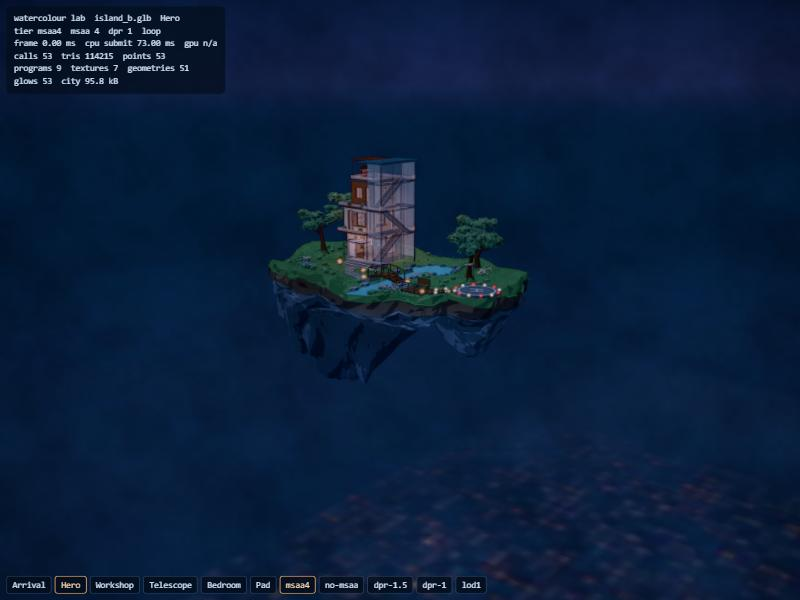
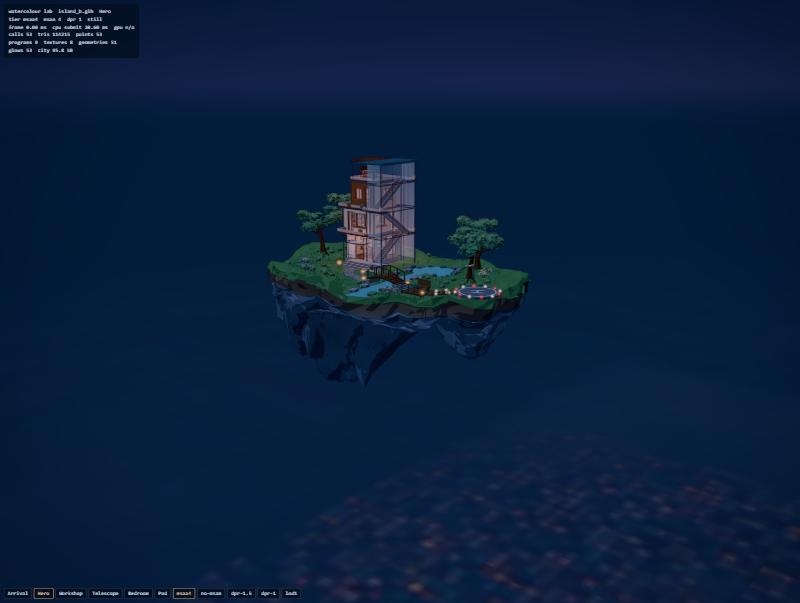
fix(scene): anchor the pigment pools to the island
The composite pass drew the pigment pools in screen space, so they read as a
texture over the whole frame and stayed put while the camera moved. The toon
material now draws them as a world-space noise in the shadow steps. The paper
grain shows only where there is paint, so the sky and haze stay clean.

Changed region(s): [[0.0, 0.0, 0.2812, 0.18], [0.0, 0.96, 0.625, 1.0], [0.4375, 0.39, 0.4688, 0.42]]

diff --git a/src/scene/aerie/composite-pass.js b/src/scene/aerie/composite-pass.js
@@ -6,8 +6,11 @@ import { createPaperTexture } from './paper-texture.js'
 // the sRGB step. There is no bloom on any tier. Lights glow through emissive colour and
 // glow sprites before this pass.
 //
-// Texture fetches per pixel: 1 wobble field, 1 centre colour, 8 Sobel neighbours,
-// 1 pigment field and 1 paper grain. That is 12.
+// Texture fetches per pixel: 1 wobble field, 1 centre colour, 8 Sobel neighbours and
+// 1 paper grain. That is 11.
+//
+// The pigment pools live in the toon material, in world space. In screen space they read
+// as a texture laid over the whole frame, because they stayed put while the scene moved.
 
 export const LOOK = {
     exposure: 1.15,
@@ -18,11 +21,10 @@ export const LOOK = {
     edgeLow: 0.025,
     edgeHigh: 0.2,
     edgeTint: new THREE.Color(0.38, 0.4, 0.55),
-    // Paper grain multiply, and the size of one grain texel in CSS pixels.
-    grain: 0.22,
+    // Paper grain multiply, and the size of one grain texel in CSS pixels. The grain shows
+    // only where there is paint, so the dark sky and haze stay clean.
+    grain: 0.1,
     grainScale: 1.2,
-    // Low-frequency pigment pools in the darker areas.
-    pool: 0.45,
     vignette: 0.38,
 }
 
@@ -52,7 +54,6 @@ uniform vec2 uEdgeRange;
 uniform vec3 uEdgeTint;
 uniform float uGrain;
 uniform float uGrainScale;
-uniform float uPool;
 uniform float uVignette;
 varying vec2 vUv;
 
@@ -94,16 +95,11 @@ void main() {
     vec3 color = NeutralToneMapping( hdr );
     float value = dot( color, vec3( 0.2126, 0.7152, 0.0722 ) );
 
-    // Pigment pools: in dark areas a slow field deepens some patches and lifts others.
-    float pool = texture2D( tPaper, paper * 2.3 ).a;
-    float dark = 1.0 - smoothstep( 0.06, 0.5, value );
-    color *= 1.0 - uPool * dark * ( pool - 0.42 ) * 2.0;
-
     color *= mix( vec3( 1.0 ), uEdgeTint, edge * uEdge );
 
     // Paper grain stays fixed to the screen, like the sheet under the paint.
     float grain = texture2D( tPaper, gl_FragCoord.xy / ( 256.0 * uGrainScale * uPixelRatio ) ).r;
-    color *= 1.0 + uGrain * ( grain - 0.55 );
+    color *= 1.0 + uGrain * smoothstep( 0.04, 0.3, value ) * ( grain - 0.55 );
 
     vec2 centred = ( vUv - 0.5 ) * uAspect / uAspect.x;
     color *= 1.0 - uVignette * smoothstep( 0.08, 0.42, dot( centred, centred ) );
@@ -129,7 +125,6 @@ export class WatercolourPass extends Pass {
             uEdgeTint: { value: look.edgeTint.clone() },
             uGrain: { value: look.grain },
             uGrainScale: { value: look.grainScale },
-            uPool: { value: look.pool },
             uVignette: { value: look.vignette },
         }
         this.material = new THREE.RawShaderMaterial({

diff --git a/src/scene/aerie/toon-material.js b/src/scene/aerie/toon-material.js
@@ -49,6 +49,8 @@ export function createToonUniforms({ moonDirection, bounces = [], warmStrength =
         uToonWarm: { value: NIGHT.warm.clone().multiplyScalar(warmStrength) },
         uToonBounce: { value: spots },
         uToonSaturation: { value: 0.78 },
+        uToonPool: { value: 0.3 },
+        uToonPoolScale: { value: 0.32 },
     }
 }
 
@@ -70,6 +72,27 @@ uniform vec3 uToonGround;
 uniform vec3 uToonWarm;
 uniform vec4 uToonBounce[ ${TOON_BOUNCES} ];
 uniform float uToonSaturation;
+uniform float uToonPool;
+uniform float uToonPoolScale;
+
+// Value noise in world space for the pigment pools. It moves with the island, so it reads as
+// paint on the surface. One blotch spans a few metres, far wider than a facet, so each facet
+// still reads as one tone.
+float toonHash( vec3 p ) {
+    p = fract( p * 0.3183099 + 0.1 );
+    p *= 17.0;
+    return fract( p.x * p.y * p.z * ( p.x + p.y + p.z ) );
+}
+float toonNoise( vec3 x ) {
+    vec3 i = floor( x );
+    vec3 f = x - i;
+    f = f * f * ( 3.0 - 2.0 * f );
+    return mix(
+        mix( mix( toonHash( i ), toonHash( i + vec3( 1, 0, 0 ) ), f.x ),
+             mix( toonHash( i + vec3( 0, 1, 0 ) ), toonHash( i + vec3( 1, 1, 0 ) ), f.x ), f.y ),
+        mix( mix( toonHash( i + vec3( 0, 0, 1 ) ), toonHash( i + vec3( 1, 0, 1 ) ), f.x ),
+             mix( toonHash( i + vec3( 0, 1, 1 ) ), toonHash( i + vec3( 1, 1, 1 ) ), f.x ), f.y ), f.z );
+}
 `
 
 // The normal is in view space. Multiplying by viewMatrix from the left side applies the
@@ -88,6 +111,9 @@ for ( int i = 0; i < ${TOON_BOUNCES}; i ++ ) {
 toonLight += uToonWarm * toonWarm;
 // Night mutes the baked colours a little. This acts on the smooth colour field, never per face.
 vec3 toonAlbedo = mix( vec3( dot( diffuseColor.rgb, vec3( 0.2126, 0.7152, 0.0722 ) ) ), diffuseColor.rgb, uToonSaturation );
+// Pigment pools gather in the shadow steps: some patches deepen and others lift.
+float toonPool = toonNoise( vToonWorld * uToonPoolScale ) - 0.5;
+toonAlbedo *= 1.0 - uToonPool * ( 1.0 - toonStep ) * toonPool * 2.0;
 reflectedLight.indirectDiffuse += toonAlbedo * toonLight;
 `
 

diff --git a/src/lab/watercolour.js b/src/lab/watercolour.js
@@ -231,7 +231,12 @@ async function start() {
         })
     }
     // The lab exposes its parts for console checks.
-    window.lab = { renderer, scene, camera, look, city, glow, stats, setTier, applyPreset, presets }
+    window.lab = {
+        renderer, scene, camera, look, city, glow, stats, setTier, applyPreset, presets, requestRender,
+        get pipeline() {
+            return pipeline
+        },
+    }
 }
 
 start().catch((error) => {

diff --git a/src/scene/aerie/paper-texture.js b/src/scene/aerie/paper-texture.js
@@ -4,7 +4,7 @@ import * as THREE from 'three'
 // downloads no image for it. The pass reads each channel at its own scale:
 //   R: paper grain, a few octaves of fine noise.
 //   G, B: a slow 2D field for the screen-UV wobble.
-//   A: a mid-size field for the pigment pools in dark areas.
+//   A: a mid-size field, unused for now.
 const SIZE = 256
 
 // Integer hash to 0..1. Wrapping the lattice coordinates by the period makes the noise tile.

diff --git a/scenes/urban-aerie-studies/README.md b/scenes/urban-aerie-studies/README.md
@@ -6,8 +6,8 @@ The dev server serves a lab at `/lab/watercolour.html`. It loads `island_b.glb` 
 
 The look lives in `src/scene/aerie/`, ready for Phase 4:
 
-- `toon-material.js`: one MeshLambertMaterial patch with one `customProgramCacheKey`. It replaces the light loop with a fixed rig in uniforms: a 4-step moon ramp on NearestFilter, a cool hemisphere and up to four warm bounce spots at the workshop, entry, bedroom and barbecue anchors. Each facet has one normal, so it gets one moon step. Colour comes only from the baked vertex colours and the smooth bounce field.
-- `composite-pass.js`: replaces OutputPass. It does Neutral tone mapping, luminance Sobel edge darkening, low-frequency pigment pools in dark areas, a paper grain multiply, a 1.6 px screen-UV wobble and a vignette, in 12 texture fetches. `paper-texture.js` builds its noise at startup. No tier has bloom.
+- `toon-material.js`: one MeshLambertMaterial patch with one `customProgramCacheKey`. It replaces the light loop with a fixed rig in uniforms: a 4-step moon ramp on NearestFilter, a cool hemisphere and up to four warm bounce spots at the workshop, entry, bedroom and barbecue anchors. Each facet has one normal, so it gets one moon step. Colour comes only from the baked vertex colours, the smooth bounce field and the pigment pools. The pools are a world-space noise a few metres wide that deepens or lifts the shadow steps, so they move with the island.
+- `composite-pass.js`: replaces OutputPass. It does Neutral tone mapping, luminance Sobel edge darkening, a paper grain multiply, a 1.6 px screen-UV wobble and a vignette, in 11 texture fetches. The grain shows only where there is paint. An earlier version put the pigment pools here, in screen space, and they read as a texture over the whole frame, sky included. `paper-texture.js` builds its noise at startup. No tier has bloom.
 - `glow-sprites.js`: one `THREE.Points` call of soft additive sprites over the emissive windows, lanterns and pad lights.
 - `city-backdrop.js` and `sky.js`: the painted city and a gradient night dome.
 - `quality.js`: the ladder drops MSAA, then the pixel ratio. A governor steps down when the median frame time stays over budget. Reduced motion renders one frame.
